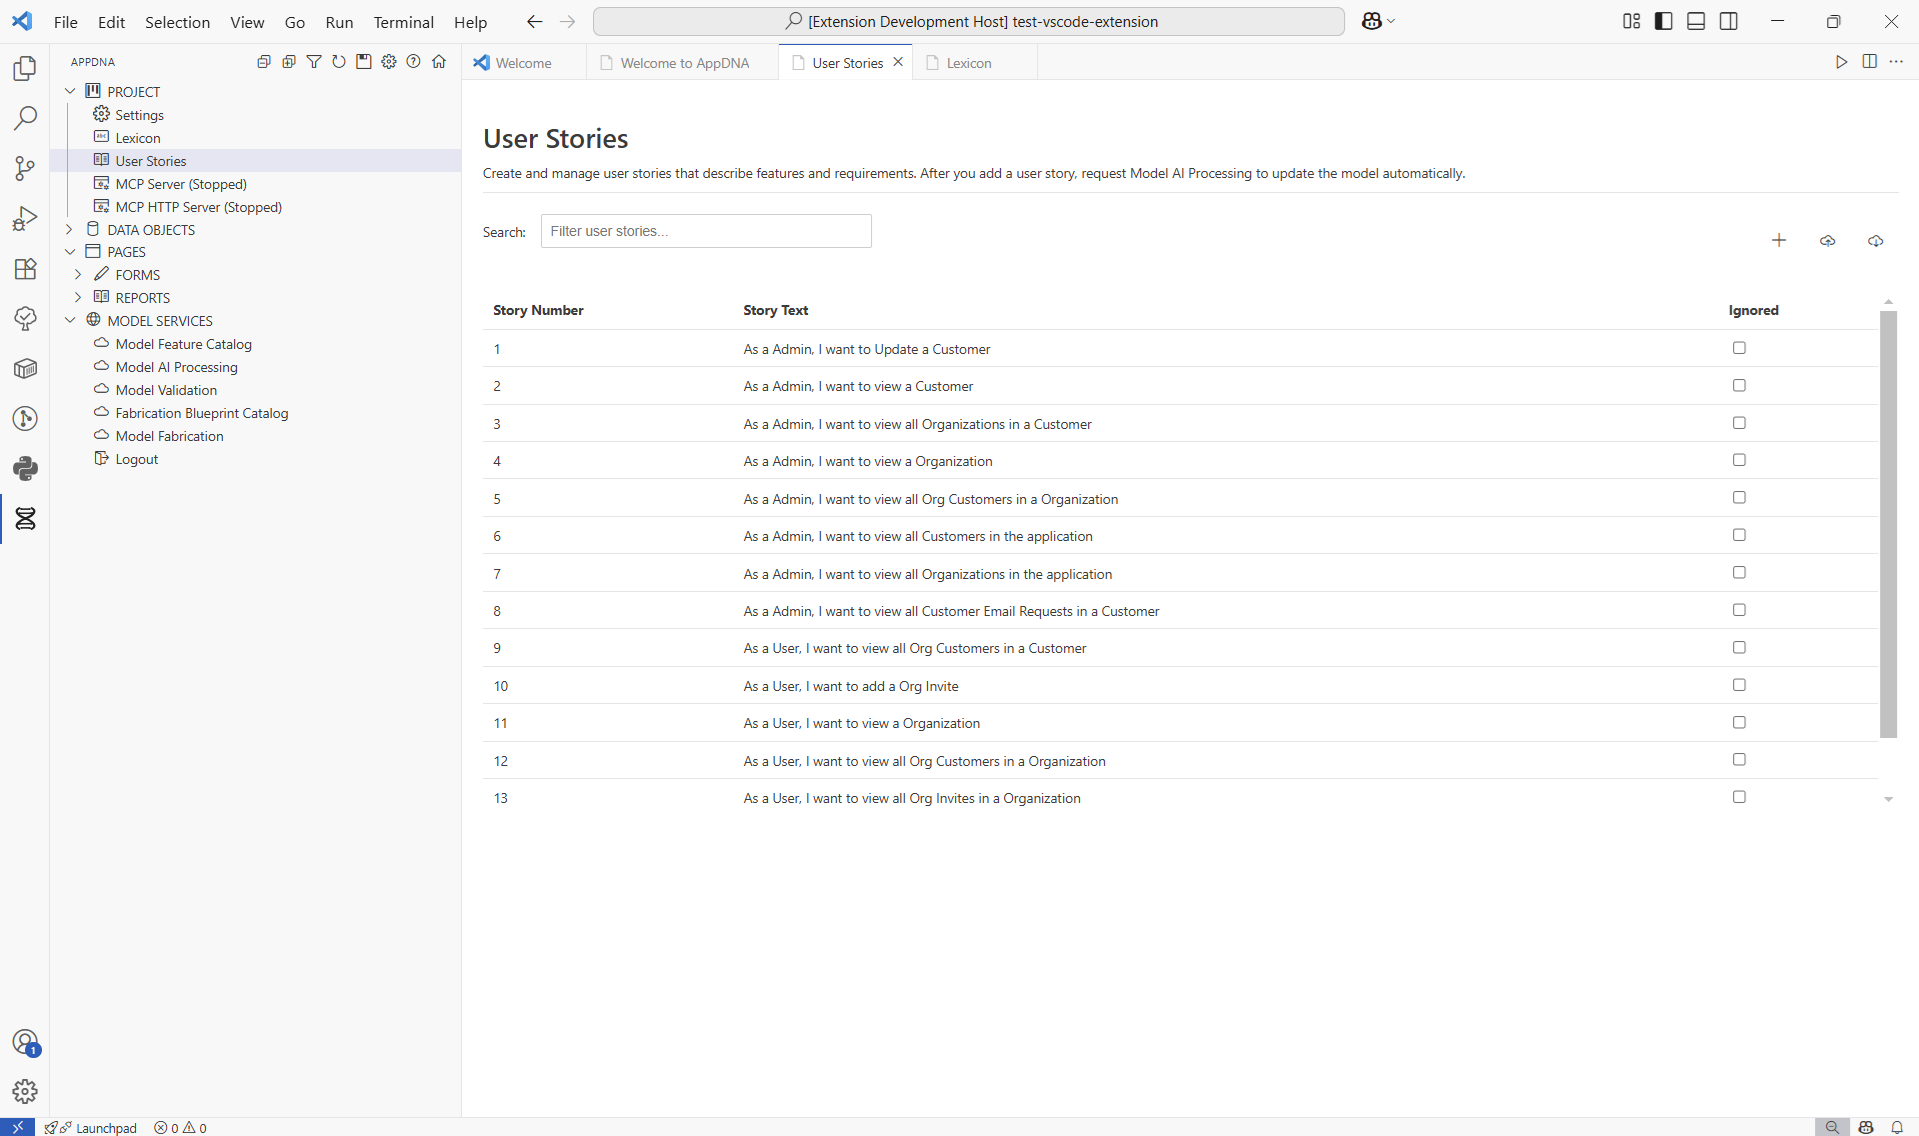
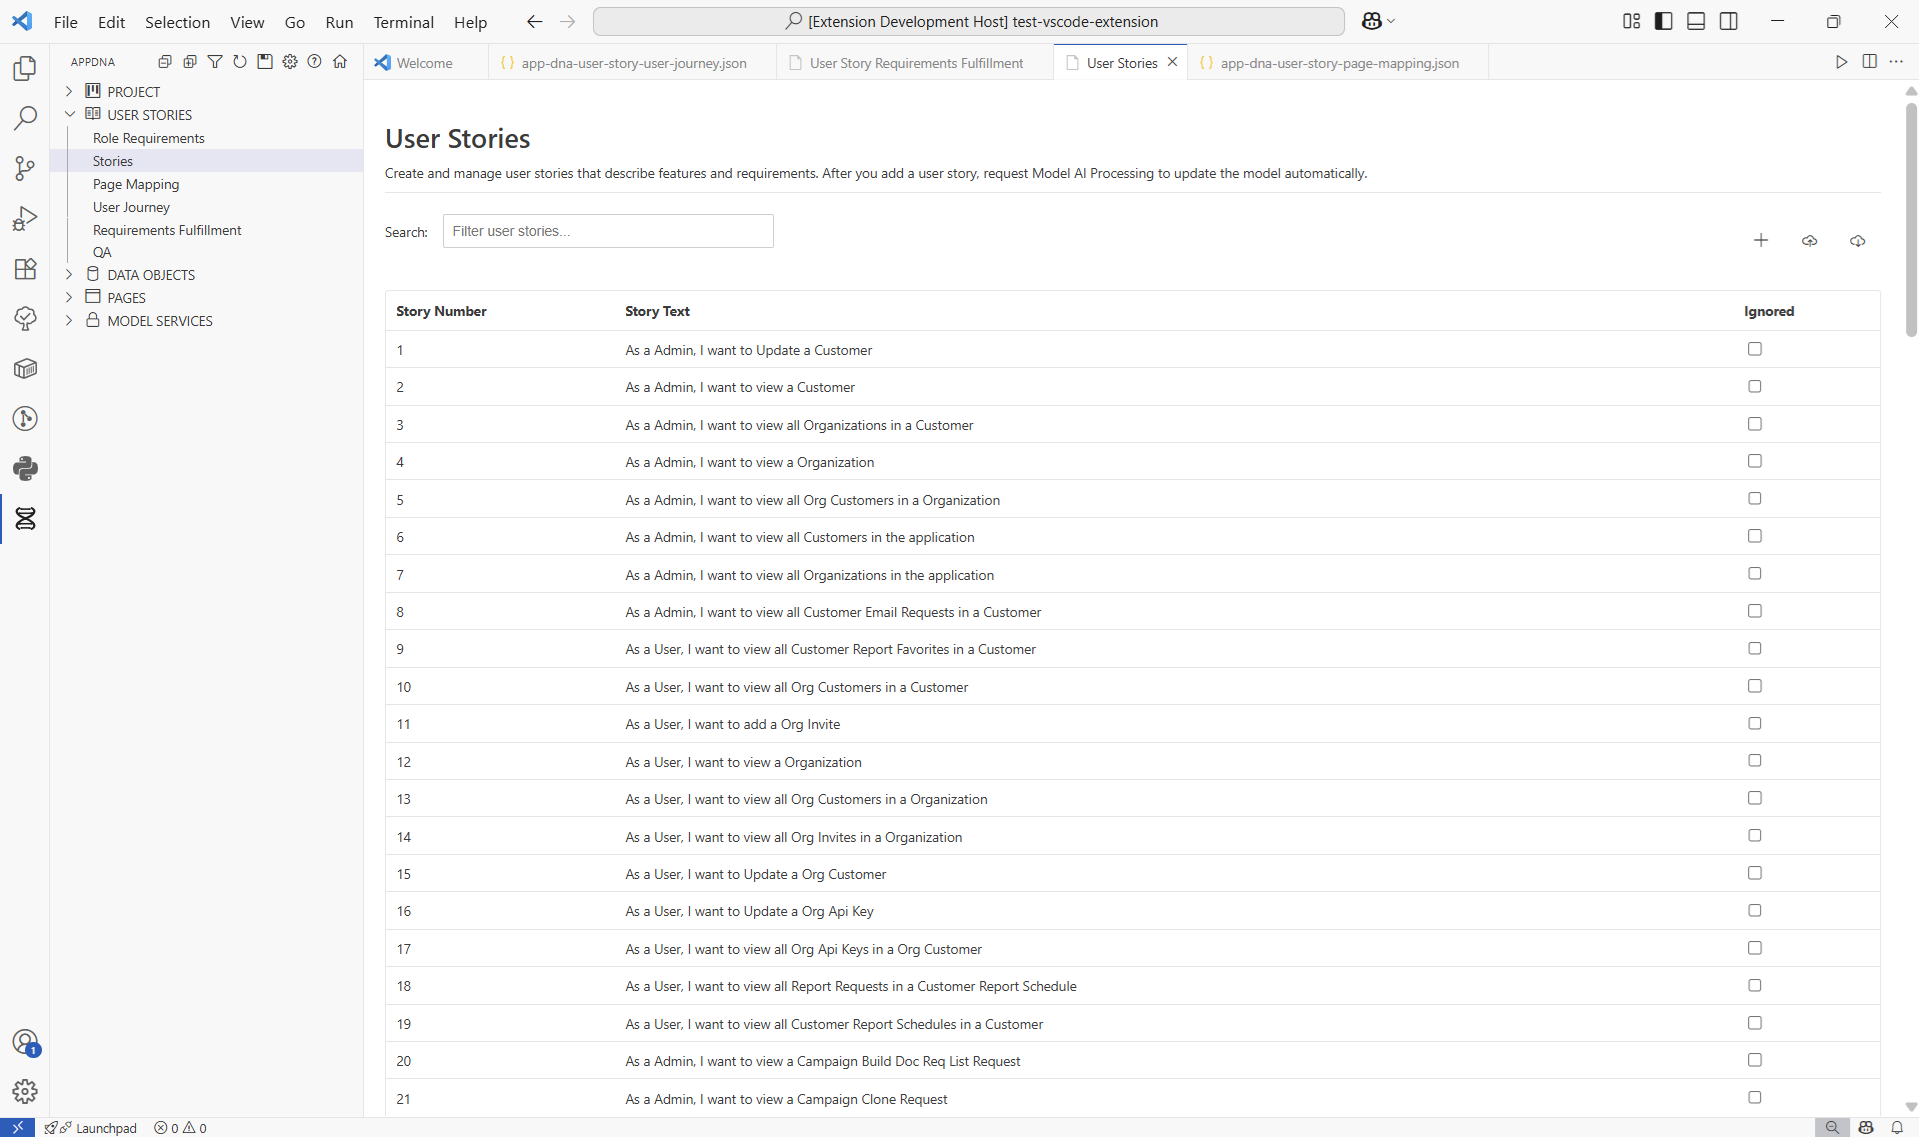
Enhancement: Revise User Stories section in README to include dedicated management capabilities and detailed views; update project structure to reflect new organization.

diff --git a/README.md b/README.md
@@ -119,10 +119,25 @@ All shortcuts use the simple `Alt+A [key]` format to avoid conflicts with standa
 
 ![User Stories Interface](https://raw.githubusercontent.com/derivative-programming/vscode-extension/main/media/userstories-screenshot.png)
 
-The extension provides a comprehensive interface with multiple views:
+User Stories has evolved into its own dedicated section with comprehensive management capabilities across multiple specialized views:
+
+#### User Stories Views
+
+- **Role Requirements**: Manage role requirements and permissions for data objects. Define what roles can access which data objects and configure security constraints for your application.
+
+- **Stories**: Create and manage user stories with proper formatting and validation. Add, edit, and organize user stories that define your application's functionality.
+
+- **Page Mapping**: Map user stories to specific pages and requirements. Visualize which pages fulfill each user story and ensure comprehensive coverage of your application's functionality.
+
+- **User Journey**: Track and visualize the user journey showing which pages fulfill each story. Follow the flow of user interactions across your application.
+
+- **Requirements Fulfillment**: Monitor required and restricted role requirements across user stories. Ensure that role-based access controls are properly implemented and validated.
+
+- **QA**: Track quality assurance status of user stories. Monitor testing progress, validation status, and completion metrics for your user stories.
 
 ### Tree View (Sidebar)
-- **PROJECT**: Configuration settings, lexicon management, user stories, MCP servers
+- **PROJECT**: Configuration settings, lexicon management, MCP servers
+- **USER STORIES**: Dedicated section with multiple specialized views (see User Stories Management above)
 - **DATA OBJECTS**: Business entities with hierarchical organization and filtering
 - **PAGES**: Forms and reports for user interface design (advanced feature)
 - **MODEL SERVICES**: AI-powered processing, validation, and code generation services
